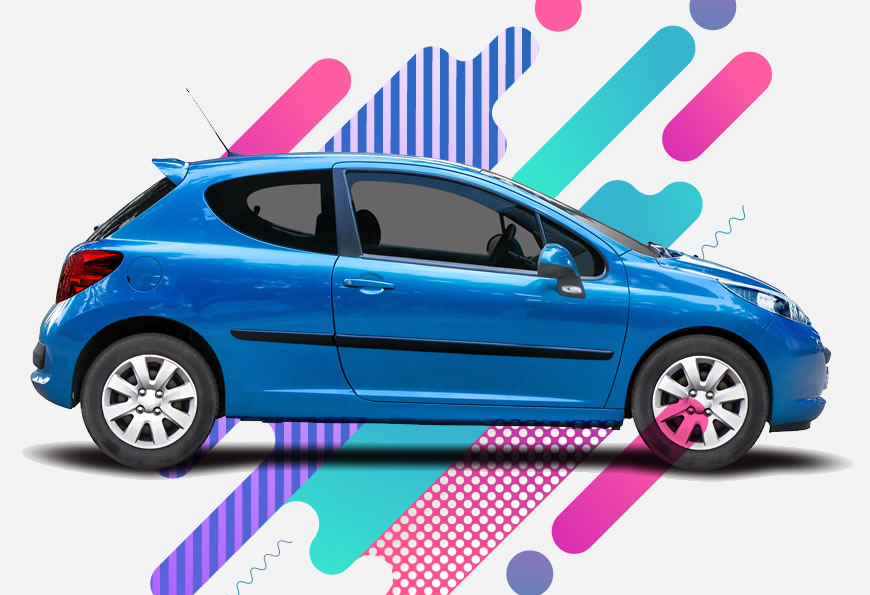
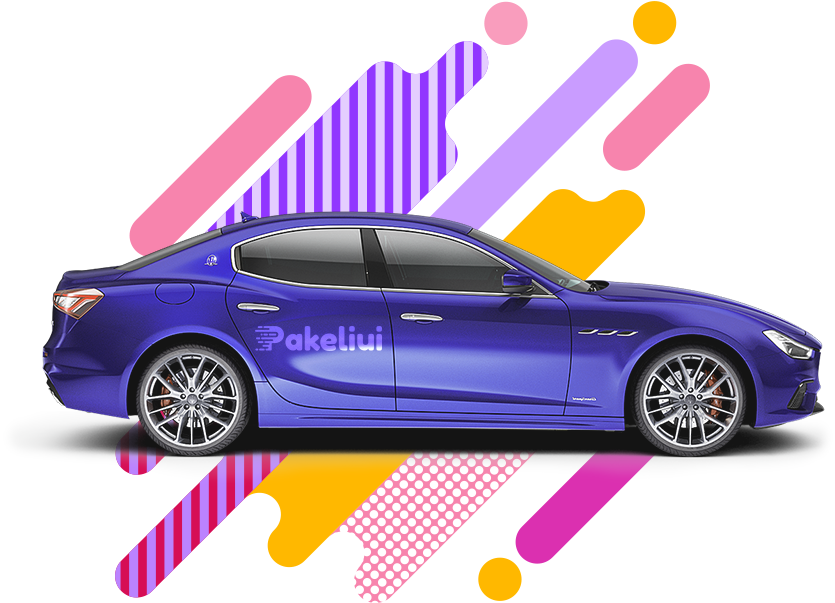
upload new image and pre-populate home page

diff --git a/Front-end/src/views/Home.vue b/Front-end/src/views/Home.vue
@@ -1,5 +1,7 @@
 <template>
   <div class="home">
+    <h1>Geresnis būdas keliauti</h1>
+    <h3>Pakeliui - tai platforma, skirta žmonėms lengvai keliauti bei pavežėti kitus</h3>
     <router-link :to="{ name: 'posts' }">
       <Button text="skelbimai" :isLarge="true" />
     </router-link>
@@ -7,6 +9,8 @@
     <router-link :to="{ name: 'post-create' }">
       <Button text="sukurk skelbimą" :isSecondary="true" :isLarge="true" />
     </router-link>
+
+    <img src="../assets/images/hero-image.png" alt="hero">
   </div>
 </template>
 
